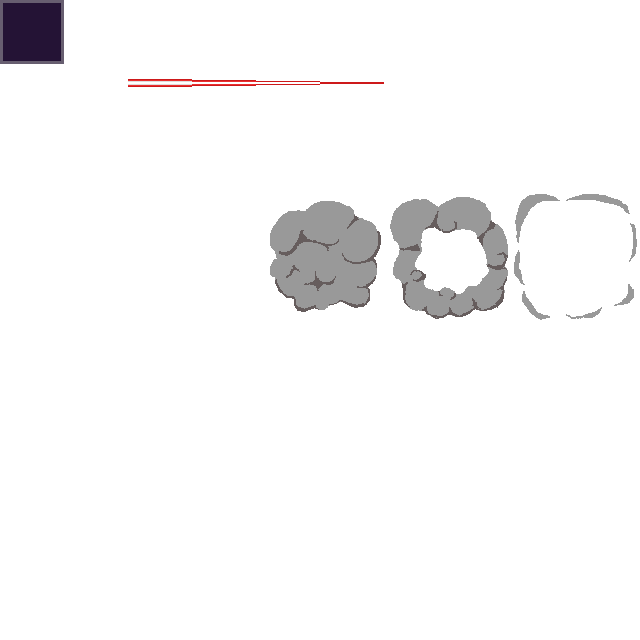
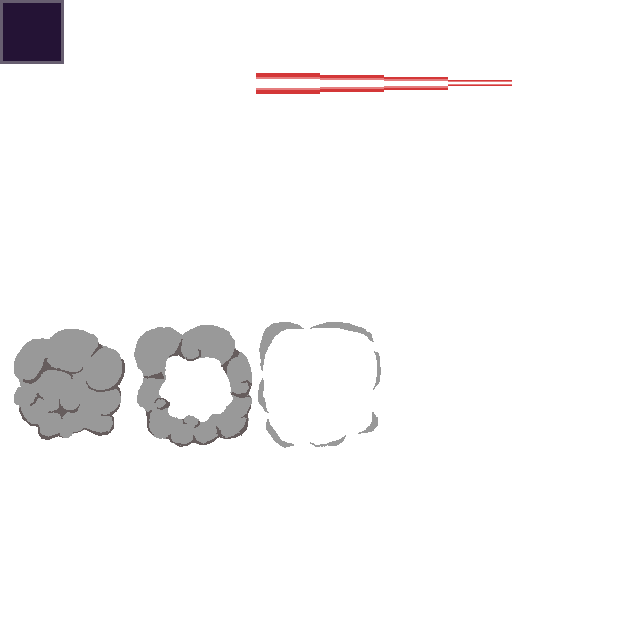
プレイヤのテクスチャも

diff --git a/src/main.rs b/src/main.rs
@@ -23,7 +23,7 @@ use constants::{
     MISSILE_WARNING_TIME,
     MISSILE_ACTIVE_TIME,
 };
-use player::Player;
+use player::{Direction, Player};
 use gimmicks::beams::Beam;
 use gimmicks::shockwaves::{ShockwaveType, Shockwave};
 use gimmicks::missiles::Missile;
@@ -44,15 +44,12 @@ fn main() -> Result<(), String> {
     let texture_creator = canvas.texture_creator();
 
     let gimmicks_texture = texture_creator.load_texture("assets/gimmicks.png")?;
+    let player_texture = texture_creator.load_texture("assets/player.png")?;
     
     let mut player = Player::new();
     let mut beams: Vec<Beam> = vec![];
     let mut shockwaves: Vec<Shockwave> = vec![];
     let mut missiles: Vec<Missile> = vec![];
-    // test
-    // beams.push(Beam::new(0));
-    // shockwaves.push(Shockwave::new(ShockwaveType::Left));
-    // missiles.push(Missile::new(0, 0));
     
     let mut rng = rand::rng();
     let mut gimmick_timer = 0;
@@ -66,19 +63,19 @@ fn main() -> Result<(), String> {
                 },
                 Event::KeyDown { keycode: Some(Keycode::W), repeat: false, .. } |
                 Event::KeyDown { keycode: Some(Keycode::Up), repeat: false, .. } => {
-                    player.update(0, -1);
+                    player.update(0, -1, None);
                 },
                 Event::KeyDown { keycode: Some(Keycode::S), repeat: false, .. } |
                 Event::KeyDown { keycode: Some(Keycode::Down), repeat: false, .. } => {
-                    player.update(0, 1);
+                    player.update(0, 1, None);
                 },
                 Event::KeyDown { keycode: Some(Keycode::A), repeat: false, .. } |
                 Event::KeyDown { keycode: Some(Keycode::Left), repeat: false, .. } => {
-                    player.update(-1, 0);
+                    player.update(-1, 0, Some(Direction::Left));
                 },
                 Event::KeyDown { keycode: Some(Keycode::D), repeat: false, .. } |
                 Event::KeyDown { keycode: Some(Keycode::Right), repeat: false, .. } => {
-                    player.update(1, 0);
+                    player.update(1, 0, Some(Direction::Right));
                 },
                 _ => {}
             }
@@ -90,8 +87,16 @@ fn main() -> Result<(), String> {
 
             let gimmick = rng.random_range(0..3);
             match gimmick {
-                0 => beams.push(Beam::new(rng.random_range(0..FIELD_HEIGHT) as i32)),
-                1 => missiles.push(Missile::new(rng.random_range(0..FIELD_WIDTH - 1) as i32, rng.random_range(0..FIELD_HEIGHT - 1) as i32)),
+                0 => {
+                    for _ in 0..rng.random_range(2..4) {
+                        beams.push(Beam::new(rng.random_range(0..FIELD_HEIGHT) as i32));
+                    }
+                },
+                1 => {
+                    for _ in 0..rng.random_range(2..6) {
+                        missiles.push(Missile::new(rng.random_range(0..FIELD_WIDTH - 1) as i32, rng.random_range(0..FIELD_HEIGHT - 1) as i32));
+                    }
+                },
                 2 => {
                     let shockwave_type = match rng.random_range(0..3) {
                         0 => ShockwaveType::Center,
@@ -130,21 +135,8 @@ fn main() -> Result<(), String> {
         canvas.set_draw_color(Color::RGB(30, 30, 30));
         canvas.clear();
         let _ = field::draw(&mut canvas, &gimmicks_texture);
-        // let field_rect = Rect::new(0,0,64,64);
-        // for y in 0..FIELD_HEIGHT {
-        //     for x in 0..FIELD_WIDTH {
-        //         let rect = Rect::new(
-        //             ((x + SIDE_MARGIN) * TILE_SIZE) as i32,
-        //             ((y + TOP_MARGIN) * TILE_SIZE) as i32,
-        //             TILE_SIZE,
-        //             TILE_SIZE,
-        //         );
-        //         canvas.copy(&gimmicks_texture, field_rect, rect)?;
-        //     }
-        // }
 
-        canvas.set_draw_color(Color::RGB(0, 255, 0));
-        canvas.fill_rect(player.get_rect())?;
+        let _ = player.draw(&mut canvas, &player_texture);
 
         for beam in &beams {
             let _ = beam.draw(&mut canvas, &gimmicks_texture);

diff --git a/src/player.rs b/src/player.rs
@@ -1,10 +1,21 @@
 use sdl2::rect::Rect;
+use sdl2::render::{Texture, Canvas};
+use sdl2::video::Window;
 use crate::constants::{ FIELD_WIDTH, FIELD_HEIGHT, TILE_SIZE, TOP_MARGIN, SIDE_MARGIN };
+
+pub enum Direction {
+    Right,
+    Left,
+}
 
 pub struct Player {
     pub x: i32,
     pub y: i32,
     pub hp: u32,
+    pub direction: Direction,
+    pub frame_count: u32,
+    pub animation_frames: [i32; 8],
+    pub animation_index: usize,
 }
 
 impl Player {
@@ -13,26 +24,48 @@ impl Player {
             x: 4,
             y: 3,
             hp: 1,
+            direction: Direction::Left,
+            frame_count: 0,
+            animation_frames: [0, 1, 2, 3, 4, 3, 2, 1],
+            animation_index: 0,
         }
     }
 
-    pub fn update(&mut self, dx: i32, dy: i32) {
+    pub fn update(&mut self, dx: i32, dy: i32, dir: Option<Direction>) {
         let new_x = self.x + dx;
         let new_y = self.y + dy;
 
         if new_x >= 0 && new_x < FIELD_WIDTH as i32 && new_y >= 0 && new_y < FIELD_HEIGHT as i32 {
             self.x = new_x;
             self.y = new_y;
+            if let Some(d) = dir {
+                self.direction = d;
+            }
         }
     }
 
-    pub fn get_rect(&self) -> Rect {
-        Rect::new(
+    pub fn draw(&mut self, canvas: &mut Canvas<Window>, texture: &Texture) -> Result<(), String> {
+        let mut texture_type = match self.direction {
+            Direction::Left => (0, 0),
+            Direction::Right => (0, 1),
+        };
+
+        self.frame_count += 1;
+        if self.frame_count >= 10 {
+            self.frame_count = 0;
+            self.animation_index = (self.animation_index + 1) % self.animation_frames.len();
+        }
+        texture_type.0 = self.animation_frames[self.animation_index];
+
+        let texture_rect = Rect::new(texture_type.0 * 64, texture_type.1 * 64, 64, 64);
+        let pos_rect = Rect::new(
             (self.x + SIDE_MARGIN as i32) * TILE_SIZE as i32,
-            (self.y + TOP_MARGIN as i32) * TILE_SIZE as i32,
+            ((self.y + TOP_MARGIN as i32) * TILE_SIZE as i32) - TILE_SIZE as i32 / 4,
             TILE_SIZE,
             TILE_SIZE,
-        )
+        );
+        canvas.copy(texture, texture_rect, pos_rect)?;
+        Ok(())
     }
 
     pub fn take_damage(&mut self) {

diff --git a/src/gimmicks/missiles.rs b/src/gimmicks/missiles.rs
@@ -41,19 +41,21 @@ impl Missile {
     }
 
     pub fn draw(&self, canvas: &mut Canvas<Window>, texture: &Texture) -> Result<(), String> {
-        let mut texture_type = 0;
+        let mut texture_type = (0, 0);
         if self.warning {
-            texture_type = 0;
-        } else if self.active && self.frame_count - MISSILE_WARNING_TIME < 10 {
-            texture_type = 2;
-        } else if self.active && self.frame_count - MISSILE_WARNING_TIME < 20 {
-            texture_type = 4;
-        } else if self.active && self.frame_count - MISSILE_WARNING_TIME < 30 {
-            texture_type = 6;
+            texture_type = (0, 3);
+        } else if self.active && self.frame_count - MISSILE_WARNING_TIME < 7 {
+            texture_type = (2, 3);
+        } else if self.active && self.frame_count - MISSILE_WARNING_TIME < 17 {
+            texture_type = (4, 3);
+        } else if self.active && self.frame_count - MISSILE_WARNING_TIME < 25 {
+            texture_type = (0, 5);
+        } else if self.active && self.frame_count - MISSILE_WARNING_TIME < 33 {
+            texture_type = (2, 5)
         } else if self.active && self.frame_count - MISSILE_WARNING_TIME < 40 {
-            texture_type = 8;
+            texture_type = (4, 5)
         }
-        let texture_rect = Rect::new(texture_type * 64, 3 * 64, 128, 128);
+        let texture_rect = Rect::new(texture_type.0 * 64, texture_type.1 * 64, 128, 128);
         let pos_rect = Rect::new(
             (self.x + SIDE_MARGIN as i32) * TILE_SIZE as i32,
             (self.y + TOP_MARGIN as i32) * TILE_SIZE as i32,

diff --git a/src/gimmicks/beams.rs b/src/gimmicks/beams.rs
@@ -46,17 +46,21 @@ impl Beam {
         } else if self.warning && self.frame_count < 20 {
             texture_type = 1;
         } else if self.warning && self.frame_count < 30 {
-            texture_type = 0;
-        } else if self.active && self.frame_count - BEAM_WARNING_TIME < 10 {
             texture_type = 2;
-        } else if self.active && self.frame_count - BEAM_WARNING_TIME < 20 {
+        } else if self.warning && self.frame_count < 40 {
+            texture_type = 1;
+        } else if self.warning && self.frame_count < 50 {
+            texture_type = 0;
+        } else if self.warning && self.frame_count < 60 {
             texture_type = 3;
-        } else if self.active && self.frame_count - BEAM_WARNING_TIME < 30 {
+        } else if self.active && self.frame_count - BEAM_WARNING_TIME < 10 {
             texture_type = 4;
-        } else if self.active && self.frame_count - BEAM_WARNING_TIME < 40 {
+        } else if self.active && self.frame_count - BEAM_WARNING_TIME < 20 {
             texture_type = 5;
-        } else {
+        } else if self.active && self.frame_count - BEAM_WARNING_TIME < 30 {
             texture_type = 6;
+        } else if self.active && self.frame_count - BEAM_WARNING_TIME < 40 {
+            texture_type = 7;
         }
         let texture_rect = Rect::new(texture_type * 64, 64, 64, 64);
         for x in 0..FIELD_WIDTH {

diff --git a/src/gimmicks/shockwaves.rs b/src/gimmicks/shockwaves.rs
@@ -56,7 +56,7 @@ impl Shockwave {
     }
 
     pub fn draw(&self, canvas: &mut Canvas<Window>, texture: &Texture) -> Result<(), String> {
-        let texture_rect = Rect::new(0 * 64, 5 * 64, 64, 64);
+        let texture_rect = Rect::new(0 * 64, 7 * 64, 64, 64);
         for x in self.x_range.0..=self.x_range.1 {
             let pos_rect = Rect::new(
                 (x + SIDE_MARGIN as i32) * TILE_SIZE as i32,

diff --git a/src/constants.rs b/src/constants.rs
@@ -8,7 +8,7 @@ pub const SIDE_MARGIN: u32 = 3;
 pub const BEAM_WARNING_TIME: u32 = 60;
 pub const BEAM_ACTIVE_TIME: u32 = 40;
 
-pub const SHOCKWAVE_SPEED: u32 = 40;
+pub const SHOCKWAVE_SPEED: u32 = 30;
 
 pub const MISSILE_WARNING_TIME: u32 = 60;
 pub const MISSILE_ACTIVE_TIME: u32 = 40;
